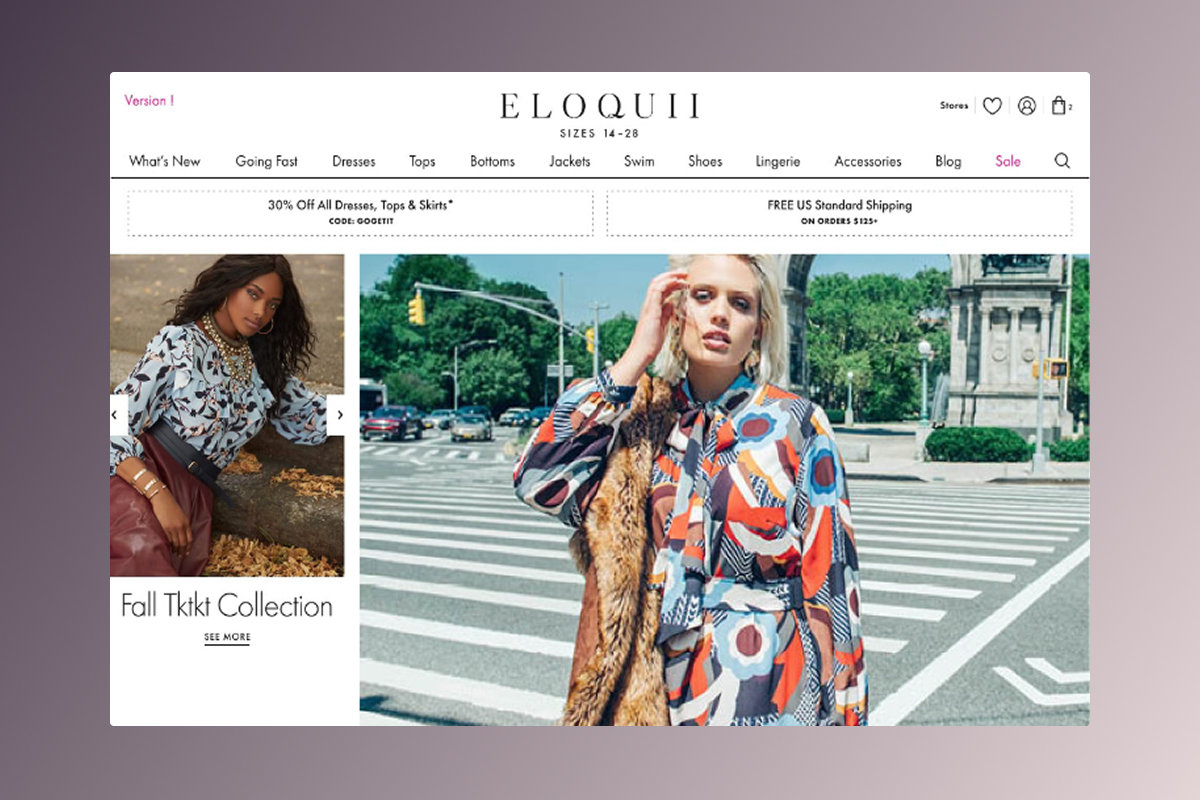
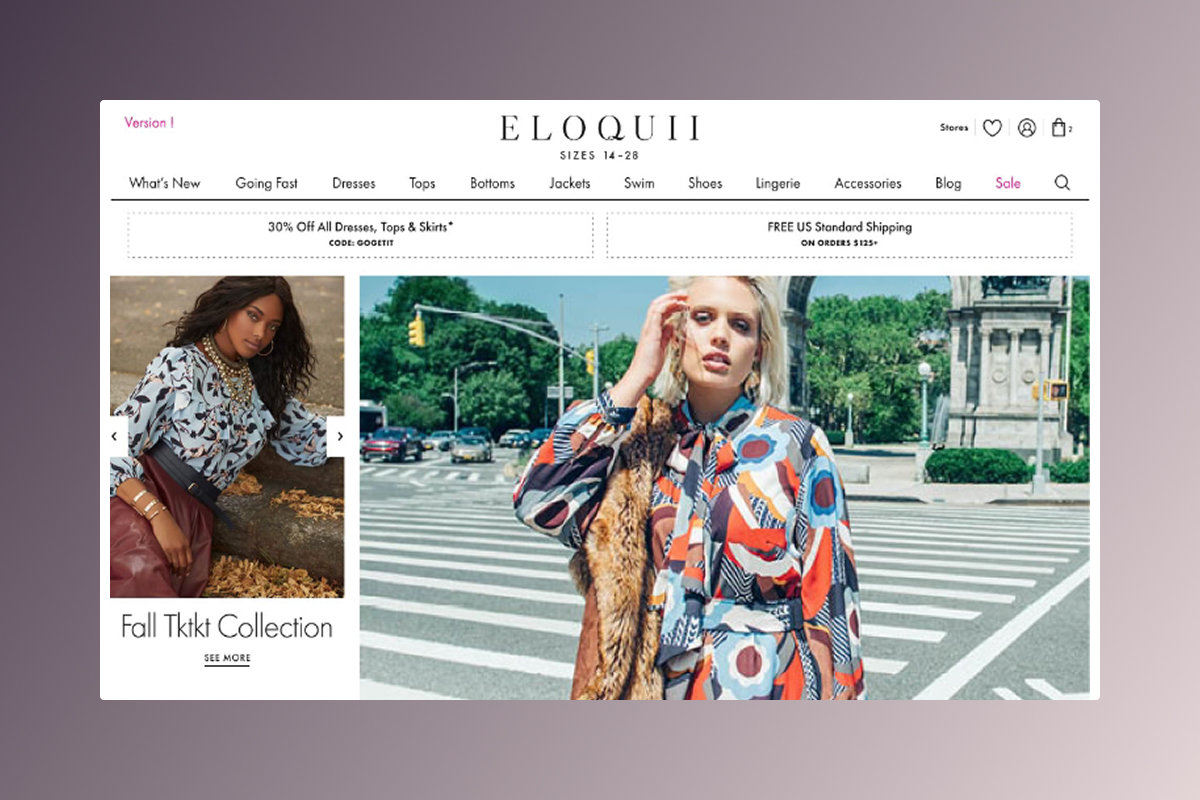
Update Eloquii image and link DDS to external site
- Replace Eloquii hero image with new version
- Link DDS card to dds.mil/work/ (opens in new window)
- Add fallback to same window if popup blocked

diff --git a/index.html b/index.html
@@ -88,7 +88,7 @@
     <div class="project-pair">
       <div class="project-pair__item project-pair__item--dds">
         <h2><span class="italic color--dds">Defense Digital Service </span>— Digital transformation of the Defense Department, integrating AI, data, cyber, and IT</h2>
-        <a href="projects/dds.html" class="card card--dds" aria-label="View Defense Digital Service project"></a>
+        <a href="https://www.dds.mil/work/" class="card card--dds js-external-link" aria-label="View Defense Digital Service project"></a>
       </div>
       <div class="project-pair__item project-pair__item--eloquii">
         <h2><span class="italic color--eloquii">Eloquii </span>— Platform redesign improving the online shopping experience for plus-size fashion customers</h2>
@@ -201,6 +201,18 @@
         wrapper.style.cursor = 'default';
       });
     })();
+
+    // External links - open in new window, fallback to same window if blocked
+    document.querySelectorAll('.js-external-link').forEach(function(link) {
+      link.addEventListener('click', function(e) {
+        e.preventDefault();
+        var url = this.href;
+        var newWindow = window.open(url, '_blank');
+        if (!newWindow || newWindow.closed || typeof newWindow.closed === 'undefined') {
+          window.location.href = url;
+        }
+      });
+    });
   </script>
 </body>
 </html>
